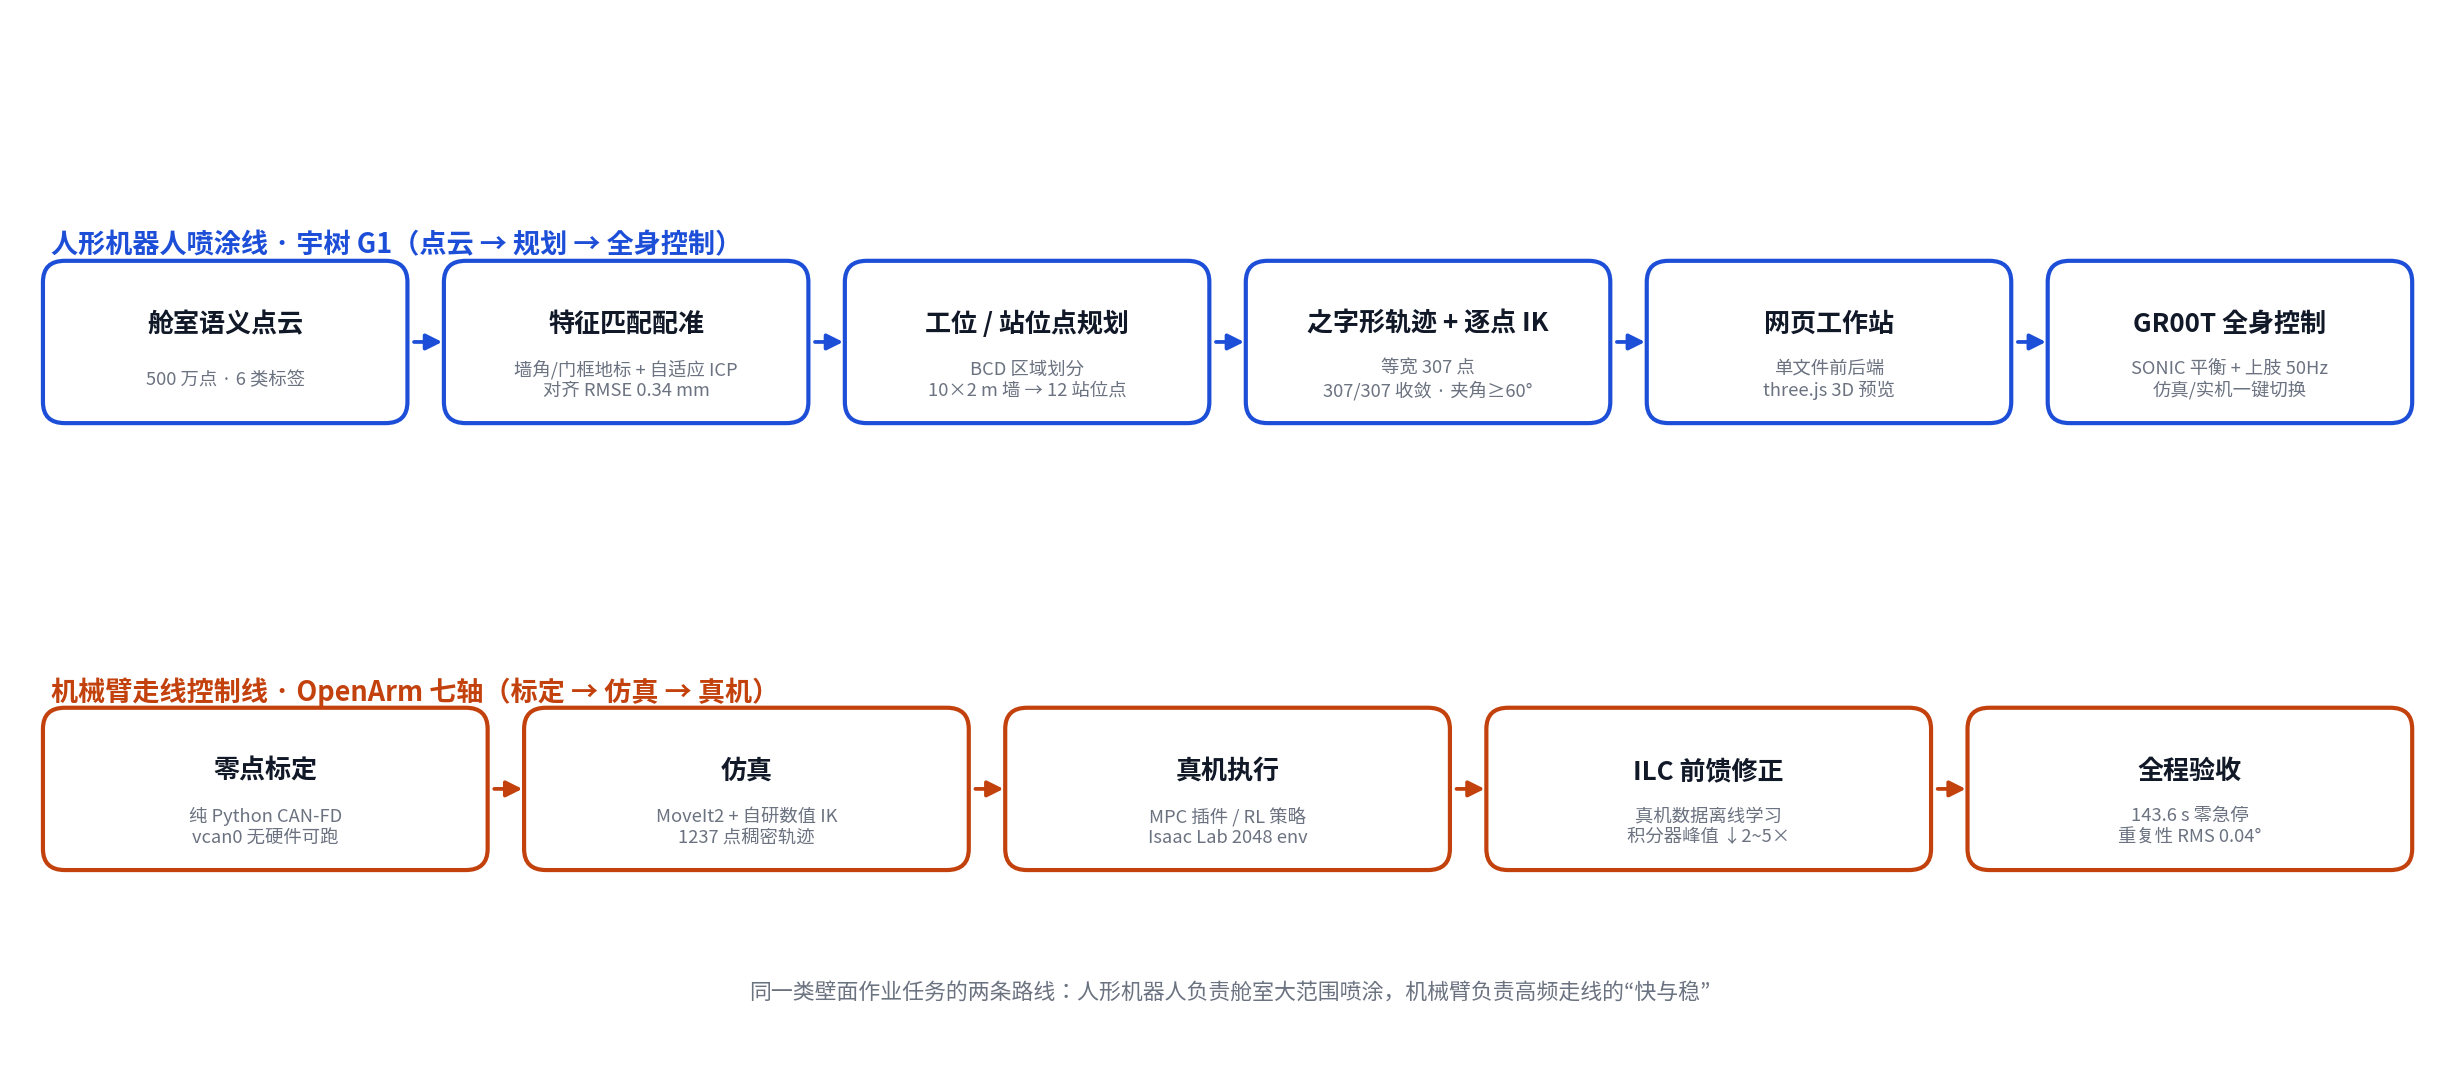
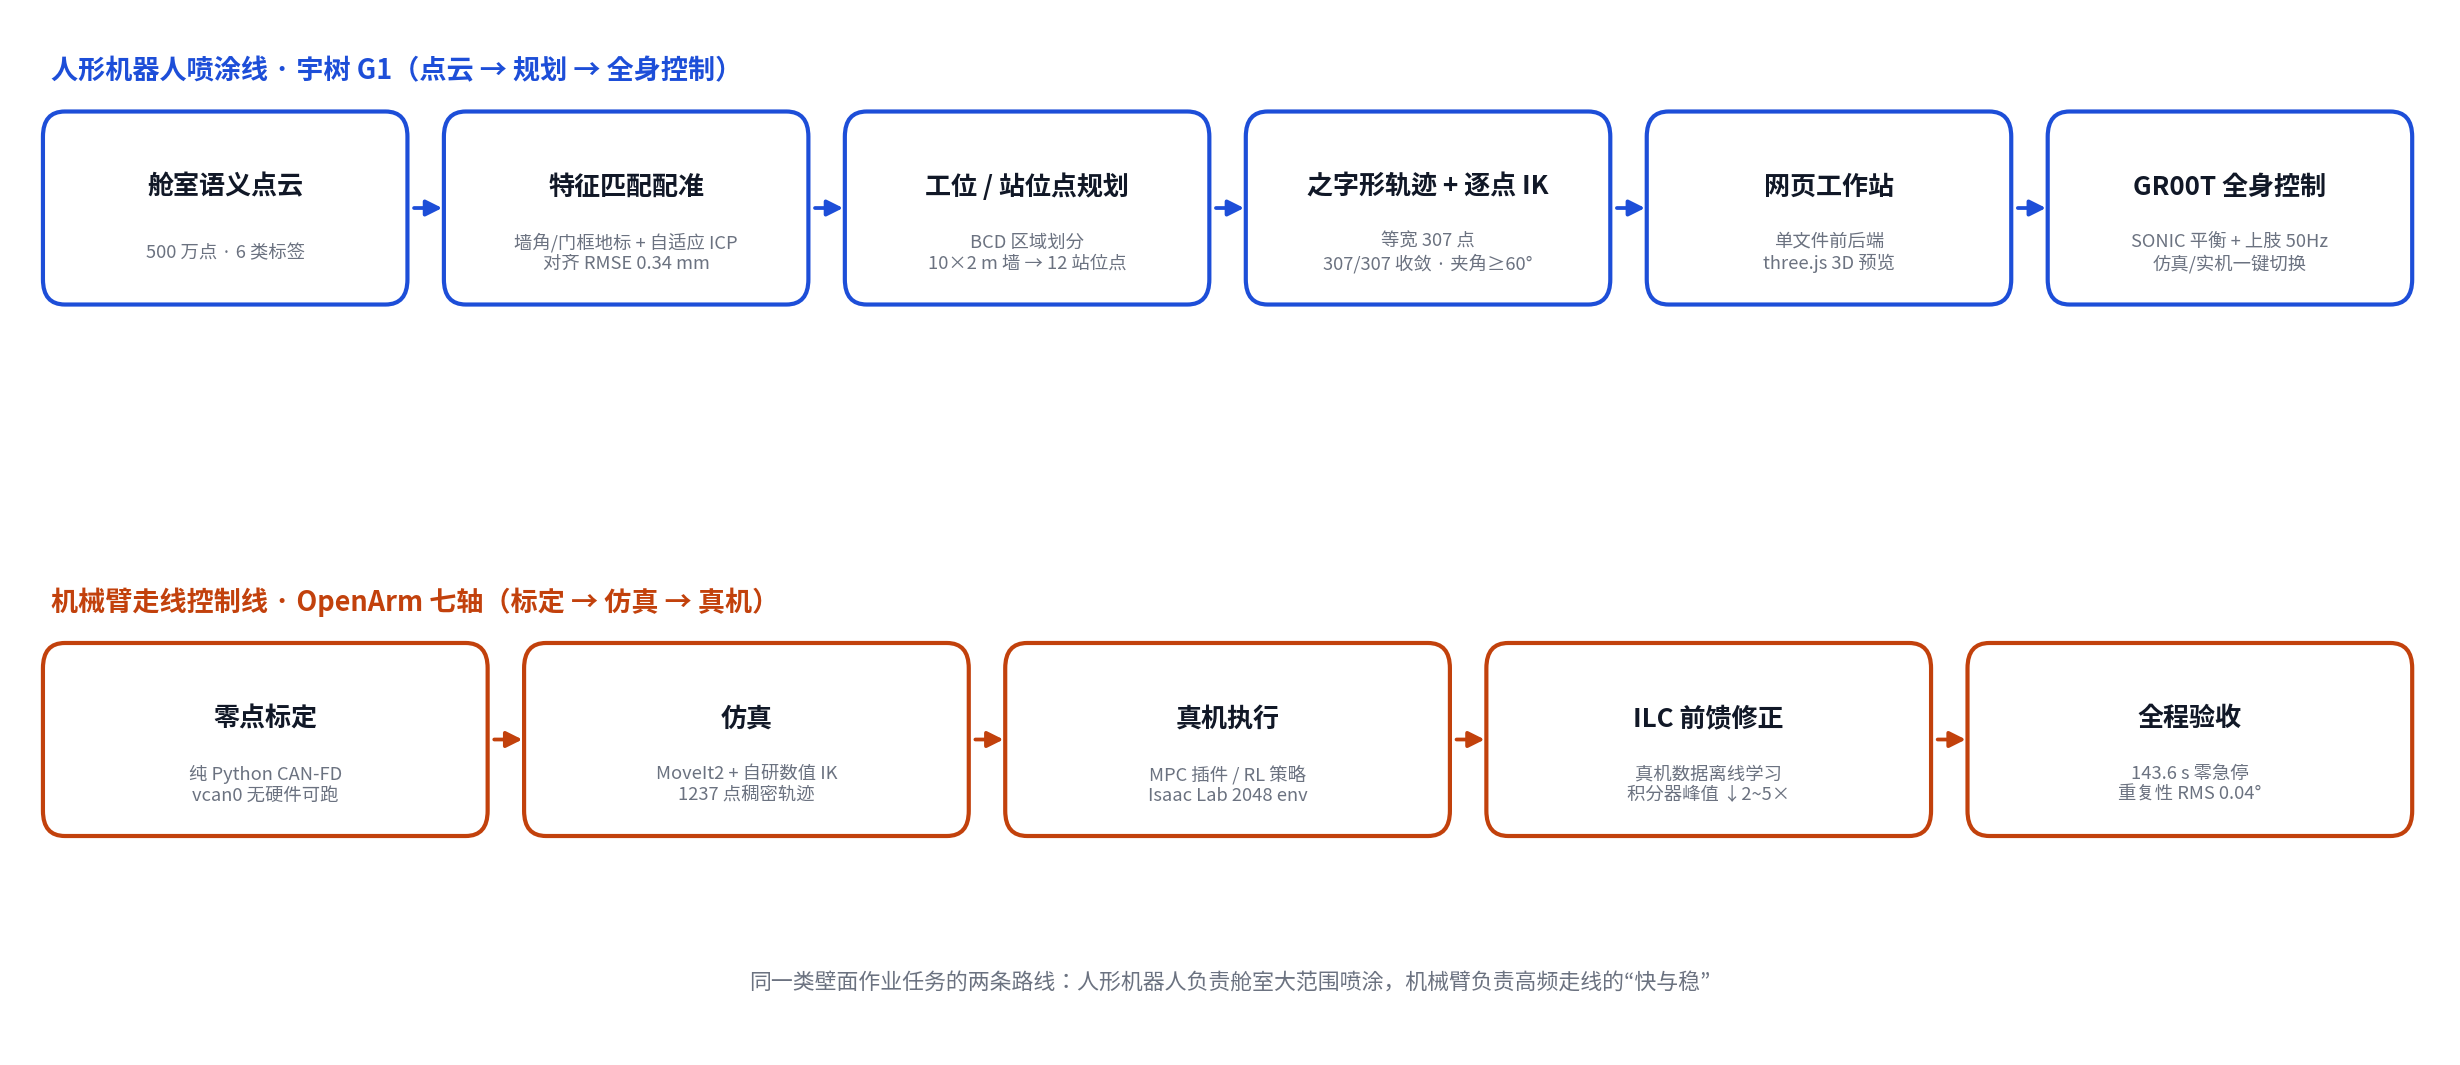
总览图：收紧顶部留白、泳道标题与框间距

diff --git a/assets/make_overview.py b/assets/make_overview.py
@@ -40,7 +40,7 @@ BLUE, ORANGE, GRAY = "#1d4ed8", "#c2410c", "#6b7280"
 
 fig, ax = plt.subplots(figsize=(16.5, 7.2), dpi=150)
 ax.set_xlim(0, 100)
-ax.set_ylim(0, 44)
+ax.set_ylim(0, 37)
 ax.axis("off")
 
 def box(x, y, w, h, title, sub, color, fs=12.5):
@@ -63,7 +63,7 @@ def lane_label(x, y, text, color):
 
 # ================= 上层：G1 人形机器人喷涂线 =================
 yA = 27
-lane_label(1.5, yA + 7.2, "人形机器人喷涂线 · 宇树 G1（点云 → 规划 → 全身控制）", BLUE)
+lane_label(1.5, yA + 8.0, "人形机器人喷涂线 · 宇树 G1（点云 → 规划 → 全身控制）", BLUE)
 boxesA = [
     ("舱室语义点云", "500 万点 · 6 类标签"),
     ("特征匹配配准", "墙角/门框地标 + 自适应 ICP\n对齐 RMSE 0.34 mm"),
@@ -81,7 +81,7 @@ for i, (t, s) in enumerate(boxesA):
 
 # ================= 下层：OpenArm 七轴机械臂控制线 =================
 yB = 8
-lane_label(1.5, yB + 7.2, "机械臂走线控制线 · OpenArm 七轴（标定 → 仿真 → 真机）", ORANGE)
+lane_label(1.5, yB + 8.0, "机械臂走线控制线 · OpenArm 七轴（标定 → 仿真 → 真机）", ORANGE)
 boxesB = [
     ("零点标定", "纯 Python CAN-FD\nvcan0 无硬件可跑"),
     ("仿真", "MoveIt2 + 自研数值 IK\n1237 点稠密轨迹"),
